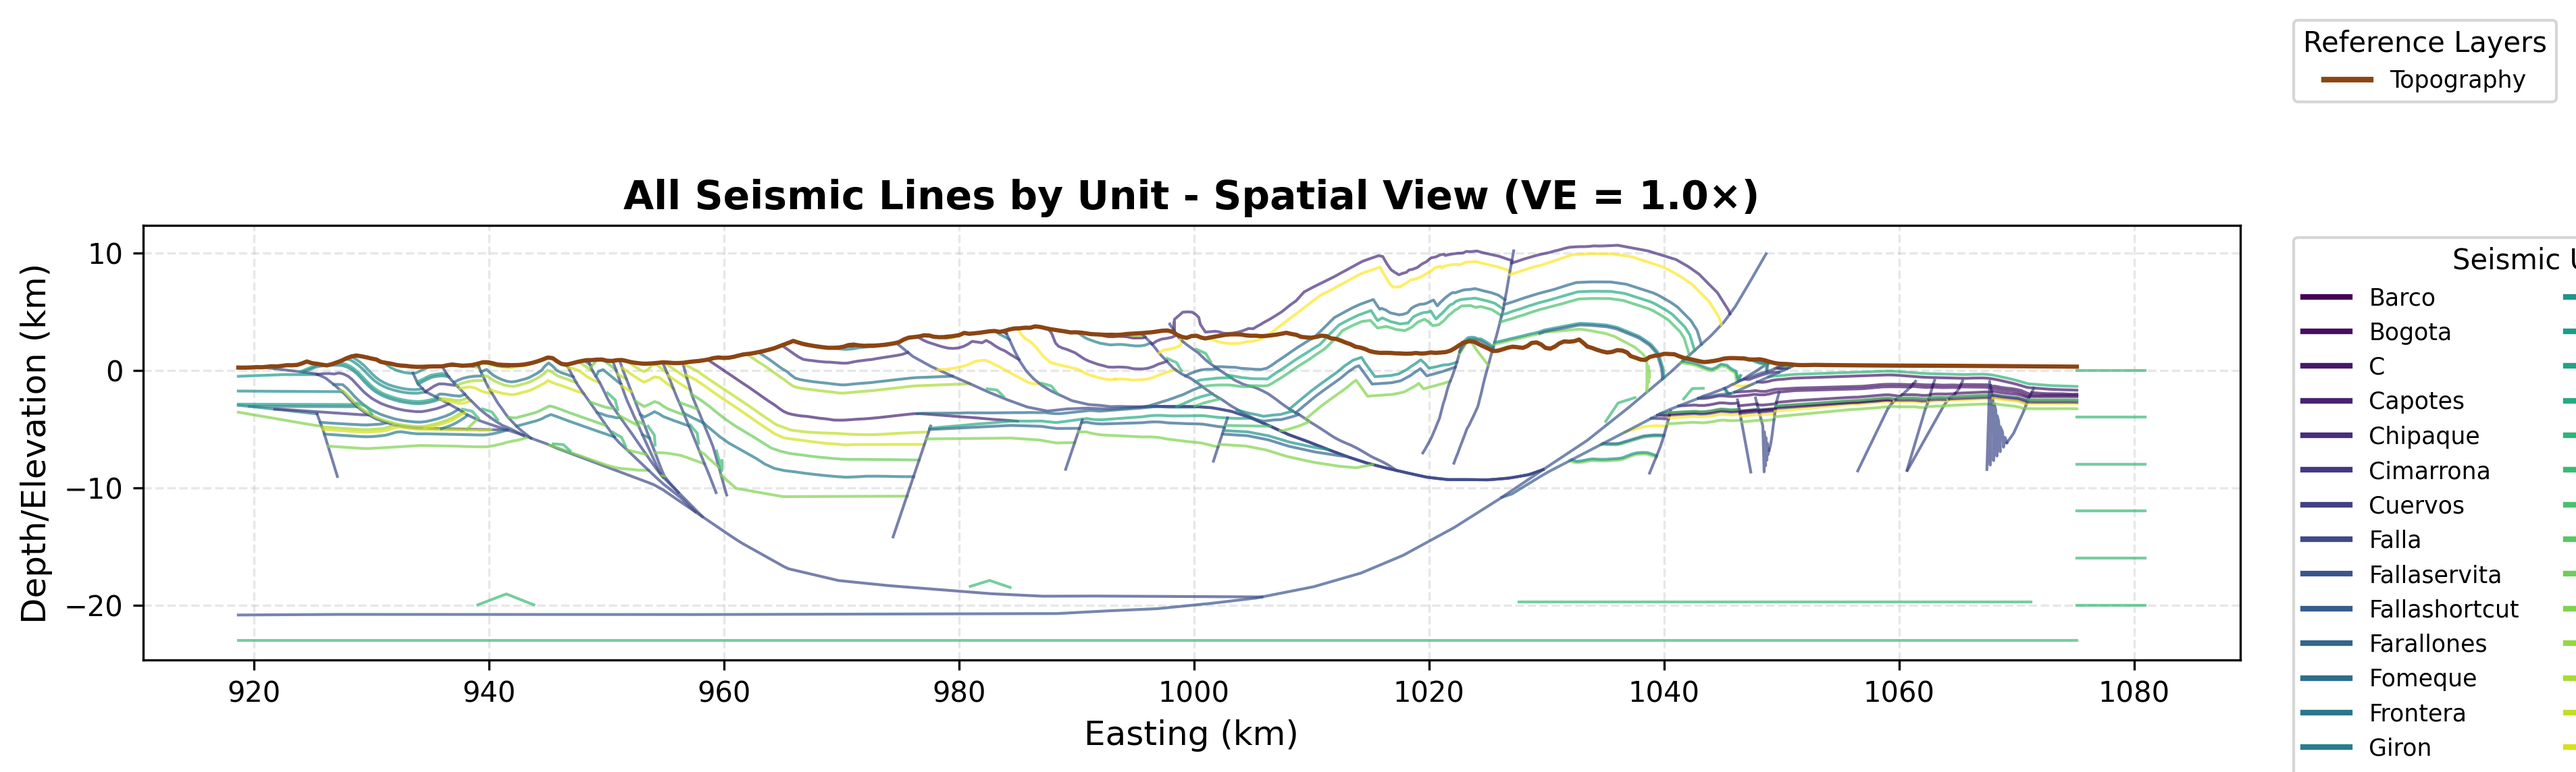
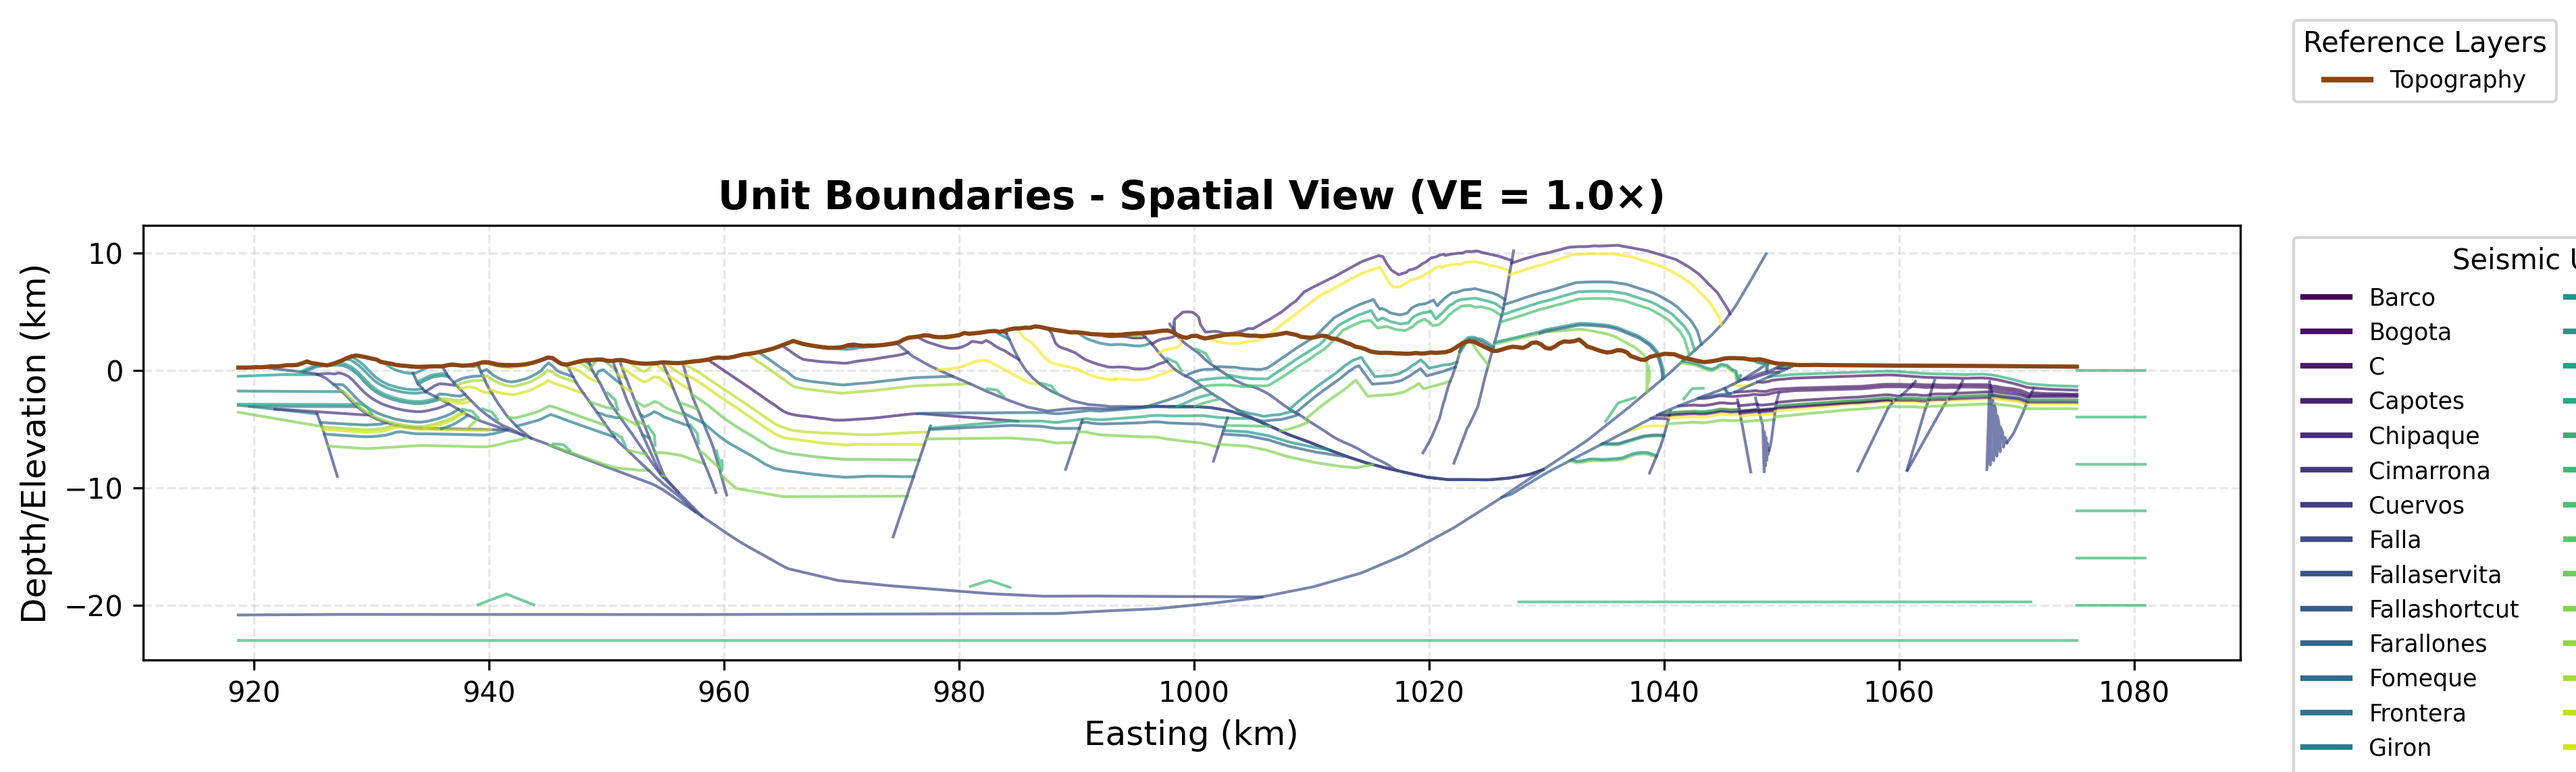
changed titles

Changed region(s): [[0.2184, 0.2142, 0.6864, 0.2753]]

diff --git a/visualization/spatial_seismic_plotter.py b/visualization/spatial_seismic_plotter.py
@@ -110,7 +110,7 @@ def plot_seismic_spatial(
 
     ax.set_xlabel(xlabel, fontsize=12)
     ax.set_ylabel('Depth/Elevation (km)', fontsize=12)
-    ax.set_title(f'All Seismic Lines by Unit - Spatial View (VE = {vertical_exaggeration:.1f}×)', fontsize=14, fontweight='bold')
+    ax.set_title(f'Unit Boundaries - Spatial View (VE = {vertical_exaggeration:.1f}×)', fontsize=14, fontweight='bold')
     ax.grid(True, alpha=0.3, linestyle='--')
 
     seismic_legend_elements = [Line2D([0], [0], color=color, lw=2, label=unit) for unit, color in unit_to_color.items()]

diff --git a/visualization/vector_plotter.py b/visualization/vector_plotter.py
@@ -76,7 +76,7 @@ def plot_vectors_and_topography(
 
     ax.set_xlabel("Distance (km)")
     ax.set_ylabel("Elevation (km)")
-    ax.set_title(f"{title}  (VE = {vertical_exaggeration:.1f}×) [1 of {arrow_stride} vectors shown]")
+    ax.set_title(f"{title}  (VE = {vertical_exaggeration:.1f}×) [1 of {arrow_stride} vectors shown]", fontweight='bold')
     ax.grid(True, alpha=0.3)
     ax.legend()
     ax.set_aspect(vertical_exaggeration)
